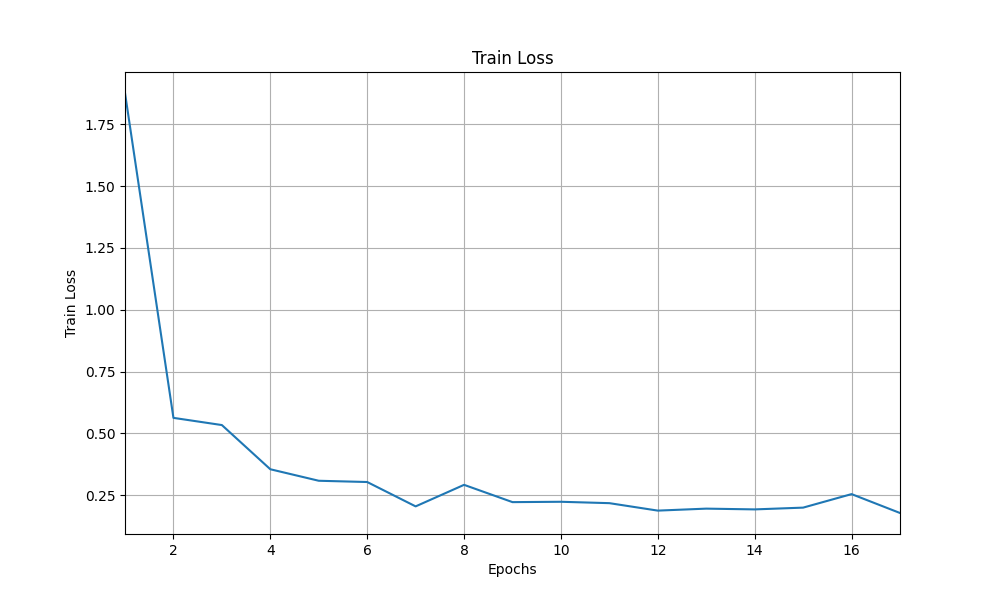
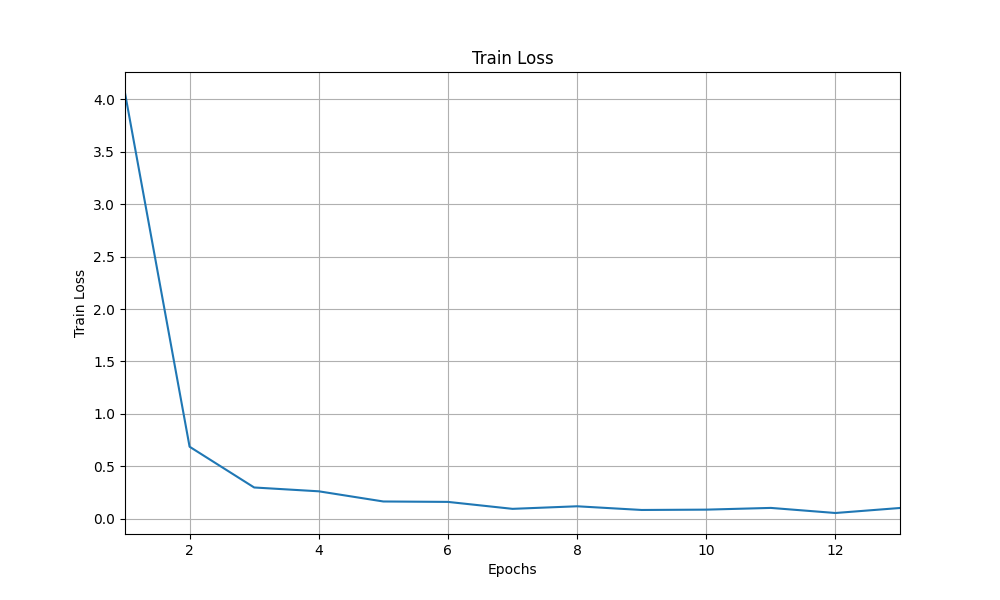
da

diff --git a/train_model.py b/train_model.py
@@ -13,9 +13,9 @@ synthesis_soldier_path = "../sampling_exp"   # 적록색맹 적용
 # synthesis_soldier_path = "./sampling_camouflage_soldier"   # 적록색맹 적용 x(test1)
 
 # train_root_path = "./train_dataset_wo_rg(exp)" # 최종 데이터 셋 저장 경로, 적록색맹 데이터 미포함(test1)
-# train_root_path = "./train_dataset_wo_real(exp)" # 최종 데이터 셋 저장 경로, 실제 데이터 미포함(test2)
+train_root_path = "../train_dataset_wo_real(exp)" # 최종 데이터 셋 저장 경로, 실제 데이터 미포함(test2)
 # train_root_path = "../train_dataset_wo_syn(exp)" # 최종 데이터 셋 저장 경로, 생성 데이터 미포함
-train_root_path = "../train_dataset_refine-tuning" # 최종 데이터 셋 저장 경로, 재 생성(dreambooth)
+# train_root_path = "../train_dataset_refine-tuning" # 최종 데이터 셋 저장 경로, 재 생성(dreambooth)
 
 non_soldier_target_path = os.path.join(train_root_path, 'non_soldier')  # 최종 데이터 셋 저장 경로
 soldier_target_path = os.path.join(train_root_path, 'camouflage_soldier')    # 최종 데이터 셋 저장 경로

diff --git a/early_stopping.py b/early_stopping.py
@@ -50,5 +50,5 @@ class EarlyStopping:
         if self.verbose:
             self.trace_func(f'Validation loss decreased ({self.val_loss_min:.6f} --> {val_loss:.6f}).  Saving model ...')
         os.makedirs(self.path, exist_ok=True)
-        torch.save(models.state_dict(), f'{self.path}/Dense_models.pt')
+        torch.save(models.state_dict(), f'{self.path}/convnext_tiny_models.pt')
         self.val_loss_min = val_loss

diff --git a/pretrained_model.py b/pretrained_model.py
@@ -121,7 +121,7 @@ def generate_model():
     densenet121 = models.densenet121(weights=None)
     convnext_tiny = models.convnext_tiny(weights=None)
 
-    ensemble_model_list = densenet121
+    ensemble_model_list = convnext_tiny
     ensemble_model = get_pretrained_model(ensemble_model_list)
 
     return ensemble_model

diff --git a/main.py b/main.py
@@ -29,5 +29,5 @@ if __name__ == "__main__":
     num_epochs = training(device)
 
     # 테스트
-    testing(device)
+    # testing(device)
     
